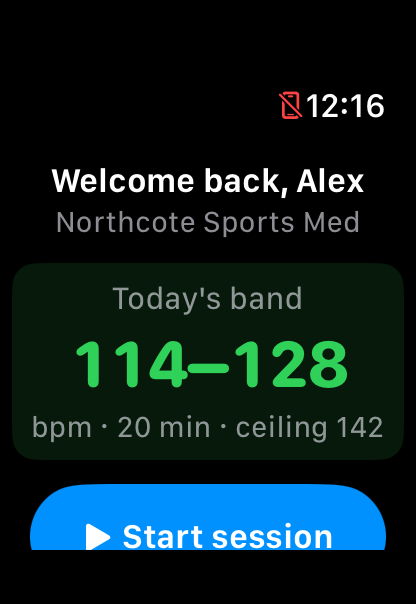
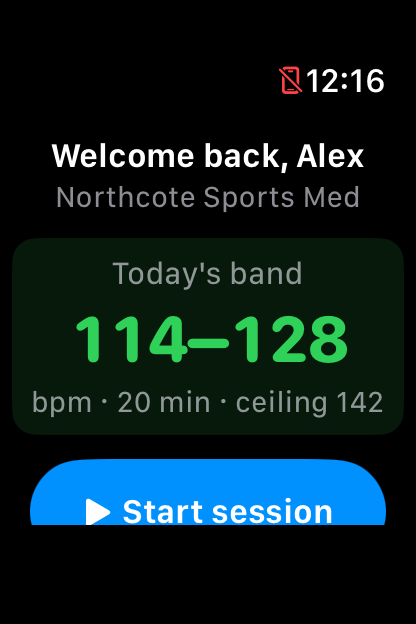
Watch: generous bottom padding + gentler case rounding so Start-session button never clipped

diff --git a/components/platform/SstWatchAnimation.tsx b/components/platform/SstWatchAnimation.tsx
@@ -34,15 +34,15 @@ export function SstWatchAnimation() {
         {/* top strap */}
         <div className="mx-auto h-8 w-[104px] rounded-t-[18px] bg-gradient-to-b from-[#2b3a57] to-[#1d2b47]" />
         {/* metal case */}
-        <div className="relative -my-1 rounded-[50px] bg-gradient-to-b from-slate-400 via-slate-600 to-slate-900 p-[4px] shadow-[0_28px_60px_-20px_rgba(0,0,0,.8)]">
+        <div className="relative -my-1 rounded-[40px] bg-gradient-to-b from-slate-400 via-slate-600 to-slate-900 p-[5px] shadow-[0_28px_60px_-20px_rgba(0,0,0,.8)]">
           <span className="absolute -right-[6px] top-[60px] h-[28px] w-[8px] rounded-[3px] bg-gradient-to-b from-slate-300 via-slate-500 to-slate-600" />
           <span className="absolute -right-[4px] top-[102px] h-[36px] w-[5px] rounded-[2.5px] bg-gradient-to-b from-slate-500 to-slate-700" />
           {/* Screen. Captures are pre-padded with black top/bottom margins
               (416×604), so the viewport just matches that aspect (200×290)
               with object-cover — the content sits centered with a comfortable
               black bezel and the rounded corners only ever clip black. */}
-          <div className="rounded-[46px] bg-black p-[7px]">
-            <div className="relative h-[290px] w-[200px] overflow-hidden rounded-[26px] bg-black">
+          <div className="rounded-[34px] bg-black p-[6px]">
+            <div className="relative h-[300px] w-[200px] overflow-hidden rounded-[22px] bg-black">
               <div
                 className="flex h-full transition-transform duration-[620ms] ease-[cubic-bezier(0.4,0,0.2,1)]"
                 style={{ transform: `translateX(-${i * 200}px)` }}
@@ -53,7 +53,7 @@ export function SstWatchAnimation() {
                       src={f.src}
                       alt={`SST Trainer — ${f.label}`}
                       width={200}
-                      height={290}
+                      height={300}
                       className="block h-full w-full object-cover"
                       priority
                     />
